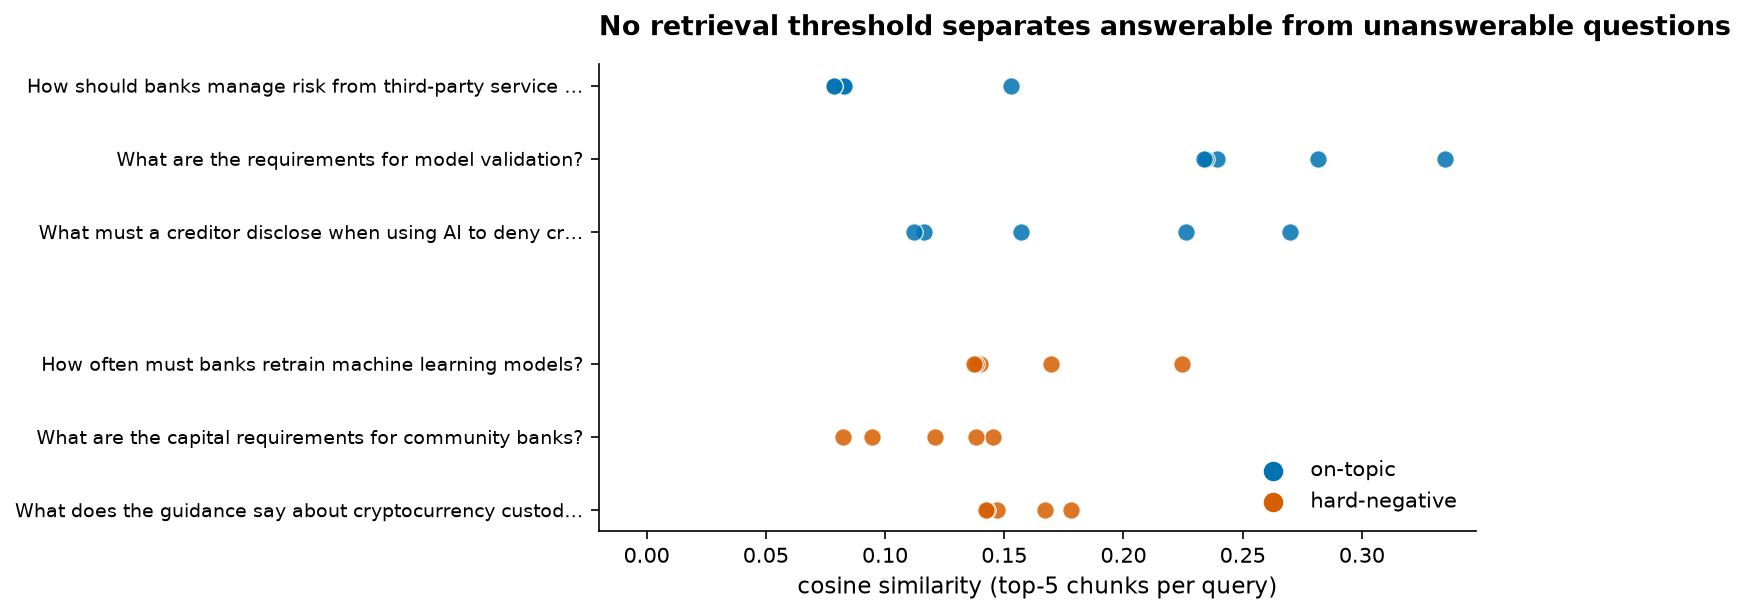
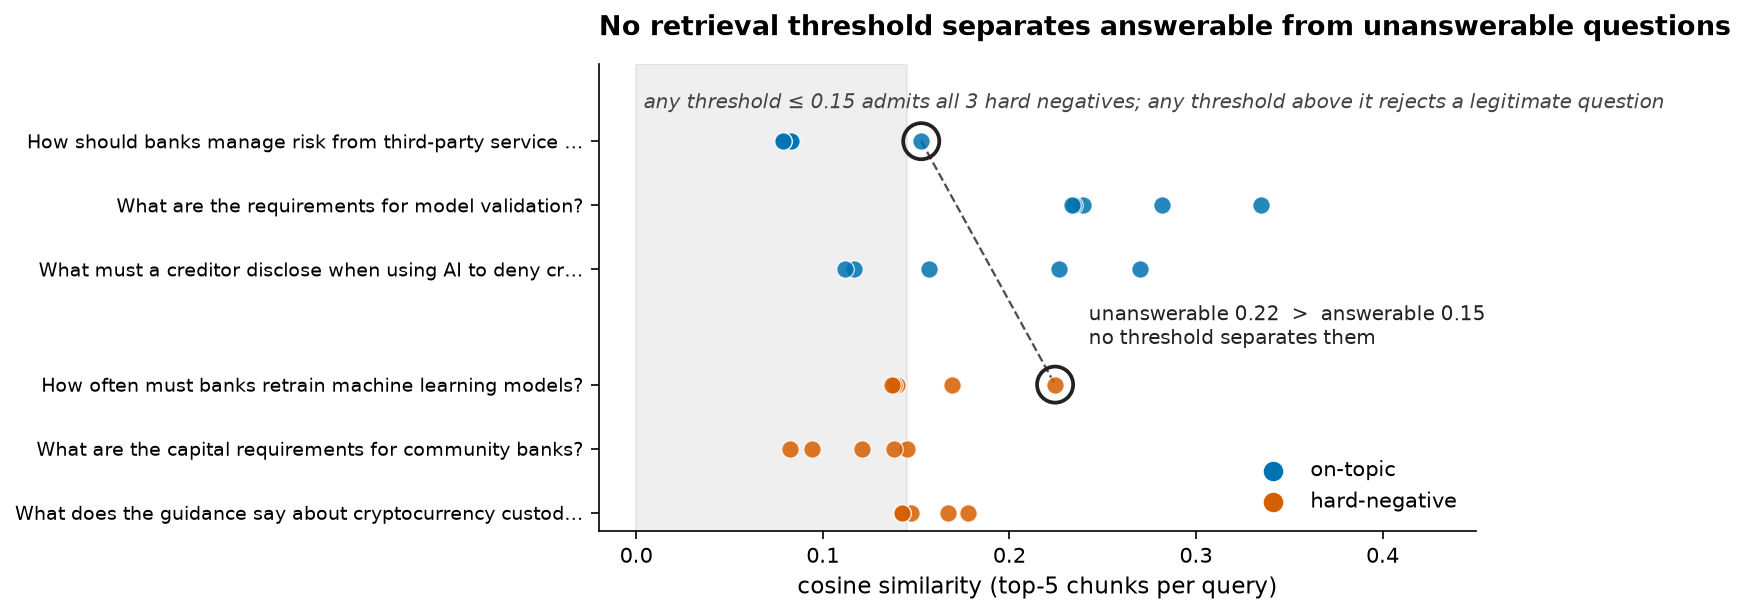
figures

diff --git a/code/plot_figures.py b/code/plot_figures.py
@@ -63,6 +63,7 @@ def figure_1_score_overlap():
 
     y_positions = []
     y_labels = []
+    rows = []          # (query, cat, scores, y) — needed for the callout
     y = 0
     prev_cat = None
     for query, d in items:
@@ -72,6 +73,7 @@ def figure_1_score_overlap():
         ax.scatter(d["scores"], [y] * len(d["scores"]),
                    color=color, s=70, alpha=0.85, zorder=3,
                    edgecolors="white", linewidths=0.6)
+        rows.append((query, d["cat"], d["scores"], y))
         y_positions.append(y)
         # truncate label to keep the figure readable
         y_labels.append(query if len(query) <= 55
@@ -83,7 +85,51 @@ def figure_1_score_overlap():
     ax.set_yticklabels(y_labels, fontsize=9)
     ax.invert_yaxis()  # top-to-bottom reading
     ax.set_xlabel("cosine similarity (top-5 chunks per query)", **LABEL_KW)
-    ax.set_xlim(-0.02, None)
+    all_scores = [s for _q, d in items for s in d["scores"]]
+    ax.set_xlim(-0.02, max(all_scores) + 0.115)
+
+    # Overlap band: shade [0, threshold] where threshold is the highest
+    # min-score cutoff at which all three hard-negative queries still
+    # retain at least one admitted chunk. Any threshold in this band
+    # fails to filter out any of the three — the retriever cannot
+    # distinguish them from the on-topic queries.
+    hardneg_maxes = [max(d["scores"]) for _q, d in items
+                     if d["cat"] == "hard_negative"]
+    threshold = min(hardneg_maxes)
+    ax.axvspan(0, threshold, color=GREY, alpha=0.15, zorder=0)
+    # Annotation placed above the top data row (negative y after invert).
+    ax.text(0.004, -0.75,
+            f"any threshold ≤ {threshold:.2f} admits all 3 hard negatives; "
+            "any threshold above it rejects a legitimate question",
+            ha="left", va="top", fontsize=9.5, color="#444444",
+            style="italic")
+    # --- The inversion: the two points that make the argument -----------
+    # The whole claim rests on one pair: the highest-scoring UNANSWERABLE
+    # question outranks the lowest-scoring ANSWERABLE one. Any threshold
+    # below that gap admits hard negatives; any threshold above it rejects
+    # a legitimate question. Circling both makes the proof visual rather
+    # than something the reader has to reconstruct by scanning.
+    hn_rows = [r for r in rows if r[1] == "hard_negative"]
+    ot_rows = [r for r in rows if r[1] == "on_topic"]
+    hn_top = max(hn_rows, key=lambda r: max(r[2]))
+    ot_low = min(ot_rows, key=lambda r: max(r[2]))
+    hx, hy = max(hn_top[2]), hn_top[3]
+    ox, oy = max(ot_low[2]), ot_low[3]
+
+    ax.scatter([hx, ox], [hy, oy], s=300, facecolors="none",
+               edgecolors="#222222", linewidths=1.8, zorder=5)
+    ax.plot([ox, hx], [oy, hy], color="#222222", lw=1.1, ls="--",
+            alpha=0.8, zorder=2)
+    # Park the label in the blank band between the two category groups —
+    # the only region with no data points and no legend.
+    gap_y = (max(r[3] for r in ot_rows) + min(r[3] for r in hn_rows)) / 2
+    ax.text(hx + 0.018, gap_y,
+            f"unanswerable {hx:.2f}  >  answerable {ox:.2f}\n"
+            "no threshold separates them",
+            fontsize=9.5, color="#222222", va="center", ha="left")
+
+    # Extend y-range so annotation isn't clipped.
+    ax.set_ylim(top=-1.2)
     _clean(ax)
 
     # Category legend — two labelled dots in the top-right corner.
@@ -116,12 +162,15 @@ def figure_2_q5_failure():
             "retrieved_occ": "occ_2026_13.txt" in sources,
         })
 
-    # Correctness scores per eval-run-file (one file → possibly many judgments).
-    scores_by_run = defaultdict(list)
+    # One judgment per run — earliest by filename timestamp. Some eval
+    # runs were judged multiple times during development; showing only
+    # the first keeps the figure honest to "one row per run".
+    first_score_by_run = {}
     for p in sorted((DATA_DIR / "judgments").glob("q05_*.json")):
         j = json.loads(p.read_text())
-        if j.get("correctness_score") is not None:
-            scores_by_run[j["eval_run_file"]].append(j["correctness_score"])
+        if (j.get("correctness_score") is not None
+                and j["eval_run_file"] not in first_score_by_run):
+            first_score_by_run[j["eval_run_file"]] = j["correctness_score"]
 
     fig, ax = plt.subplots(figsize=(8.5, 4.5))
 
@@ -129,13 +178,9 @@ def figure_2_q5_failure():
     for i, run in enumerate(eval_runs):
         y = i
         color = BLUE if run["retrieved_occ"] else GREY
-        # Plot every judgment as its own dot with small vertical jitter so
-        # overlapping scores are visible.
-        scores = scores_by_run.get(run["file"], [])
-        n = len(scores)
-        for idx, s in enumerate(scores):
-            offset = (idx - (n - 1) / 2) * 0.10 if n > 1 else 0
-            ax.scatter([s], [y + offset], color=color, s=110, alpha=0.9,
+        score = first_score_by_run.get(run["file"])
+        if score is not None:
+            ax.scatter([score], [y], color=color, s=130, alpha=0.9,
                        edgecolors="white", linewidths=0.7, zorder=3)
         y_labels.append(
             f"run {i + 1}  " +
@@ -147,7 +192,7 @@ def figure_2_q5_failure():
     ax.invert_yaxis()
     ax.set_xlim(0.5, 5.5)
     ax.set_xticks([1, 2, 3, 4, 5])
-    ax.set_xlabel("judge correctness score  (one dot per judgment run)",
+    ax.set_xlabel("judge correctness score  (first judgment per run)",
                   **LABEL_KW)
     _clean(ax)
 
@@ -175,11 +220,15 @@ def figure_3_judge_sensitivity():
         "cites_unretrieved_source",
         "contradicts_context",
     ]
+    # Colour encodes the ONLY distinction the x-axis doesn't already make:
+    # reference vs corrupted. Giving each variant its own hue would re-encode
+    # information the axis carries, which reads as decoration.
+    BASELINE_GREY = "#666666"
     variant_colors = {
-        "original": BLACK,
+        "original": BASELINE_GREY,
         "fabricated_claim": VERMILLION,
-        "cites_unretrieved_source": ORANGE,
-        "contradicts_context": PURPLE,
+        "cites_unretrieved_source": VERMILLION,
+        "contradicts_context": VERMILLION,
     }
     # Human-readable x-tick labels (match user's phrasing).
     variant_labels = {
@@ -221,8 +270,9 @@ def figure_3_judge_sensitivity():
     _clean(ax)
 
     ax.set_title(
-        "Judge cleanly demotes fabrication and fake citations; "
-        "disagrees on contradictions", **TITLE_KW)
+        "Judge penalises fabricated content 3 points, fabricated "
+        "citations only 1–2 — and disagrees with itself on "
+        "contradictions", **TITLE_KW)
 
     out = FIG_DIR / "03_judge_sensitivity.png"
     fig.tight_layout()
